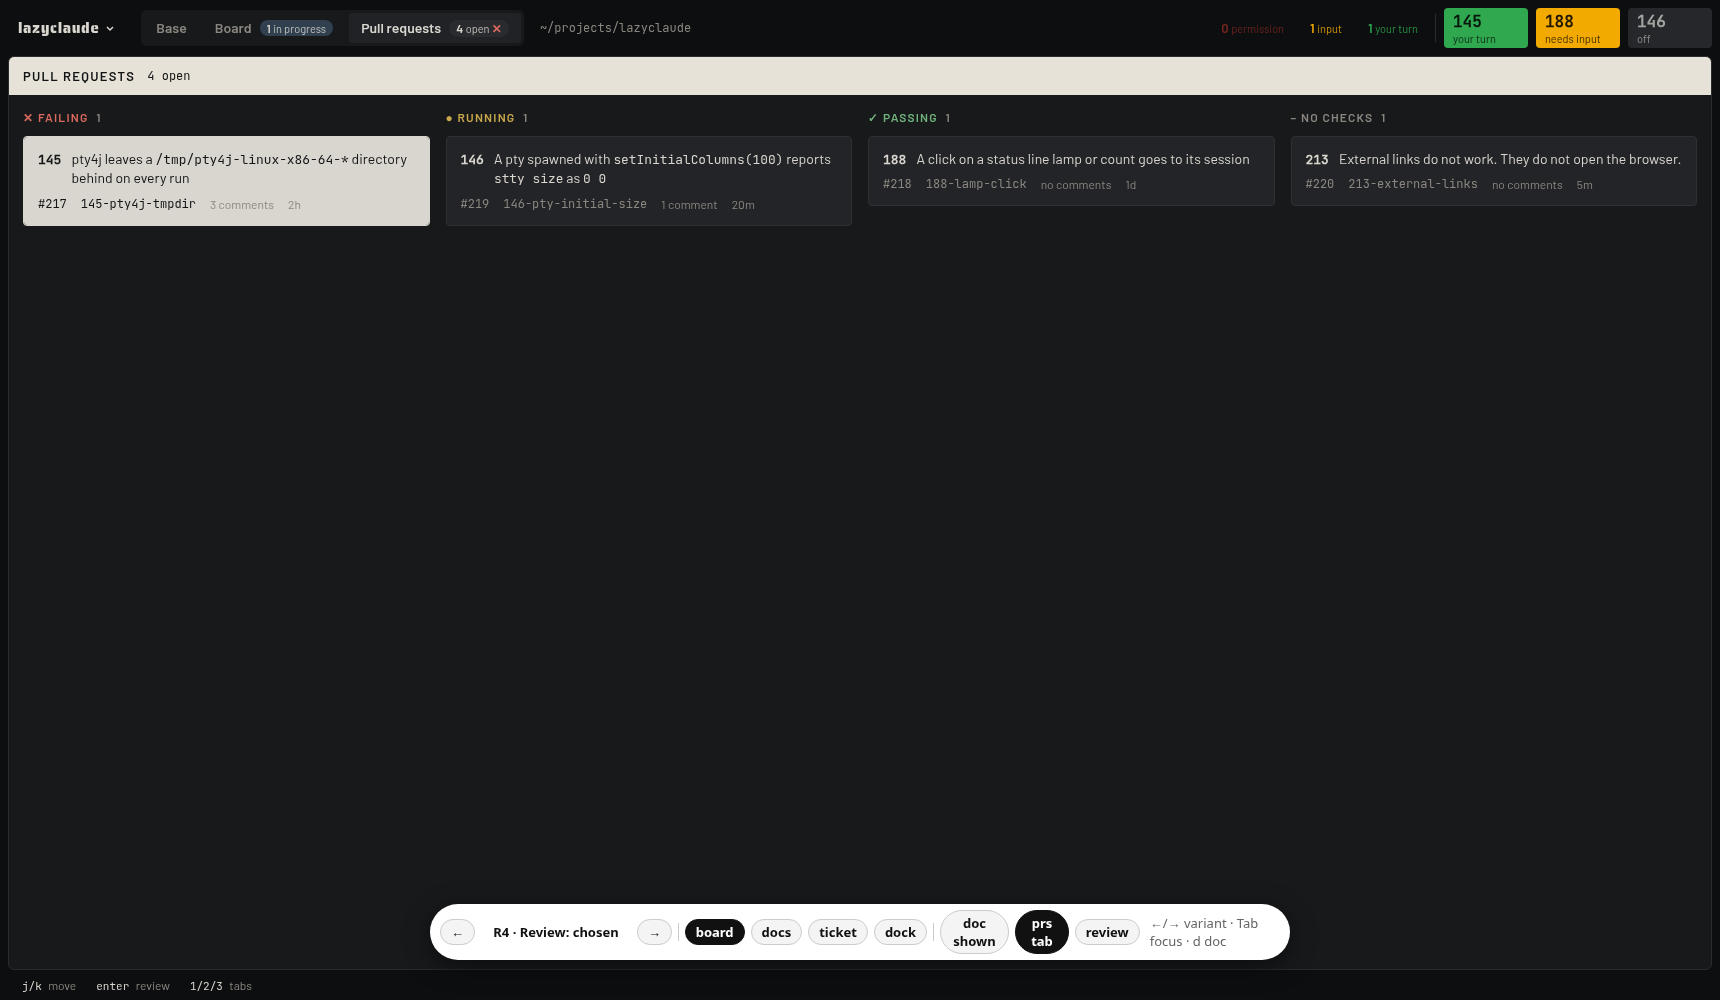
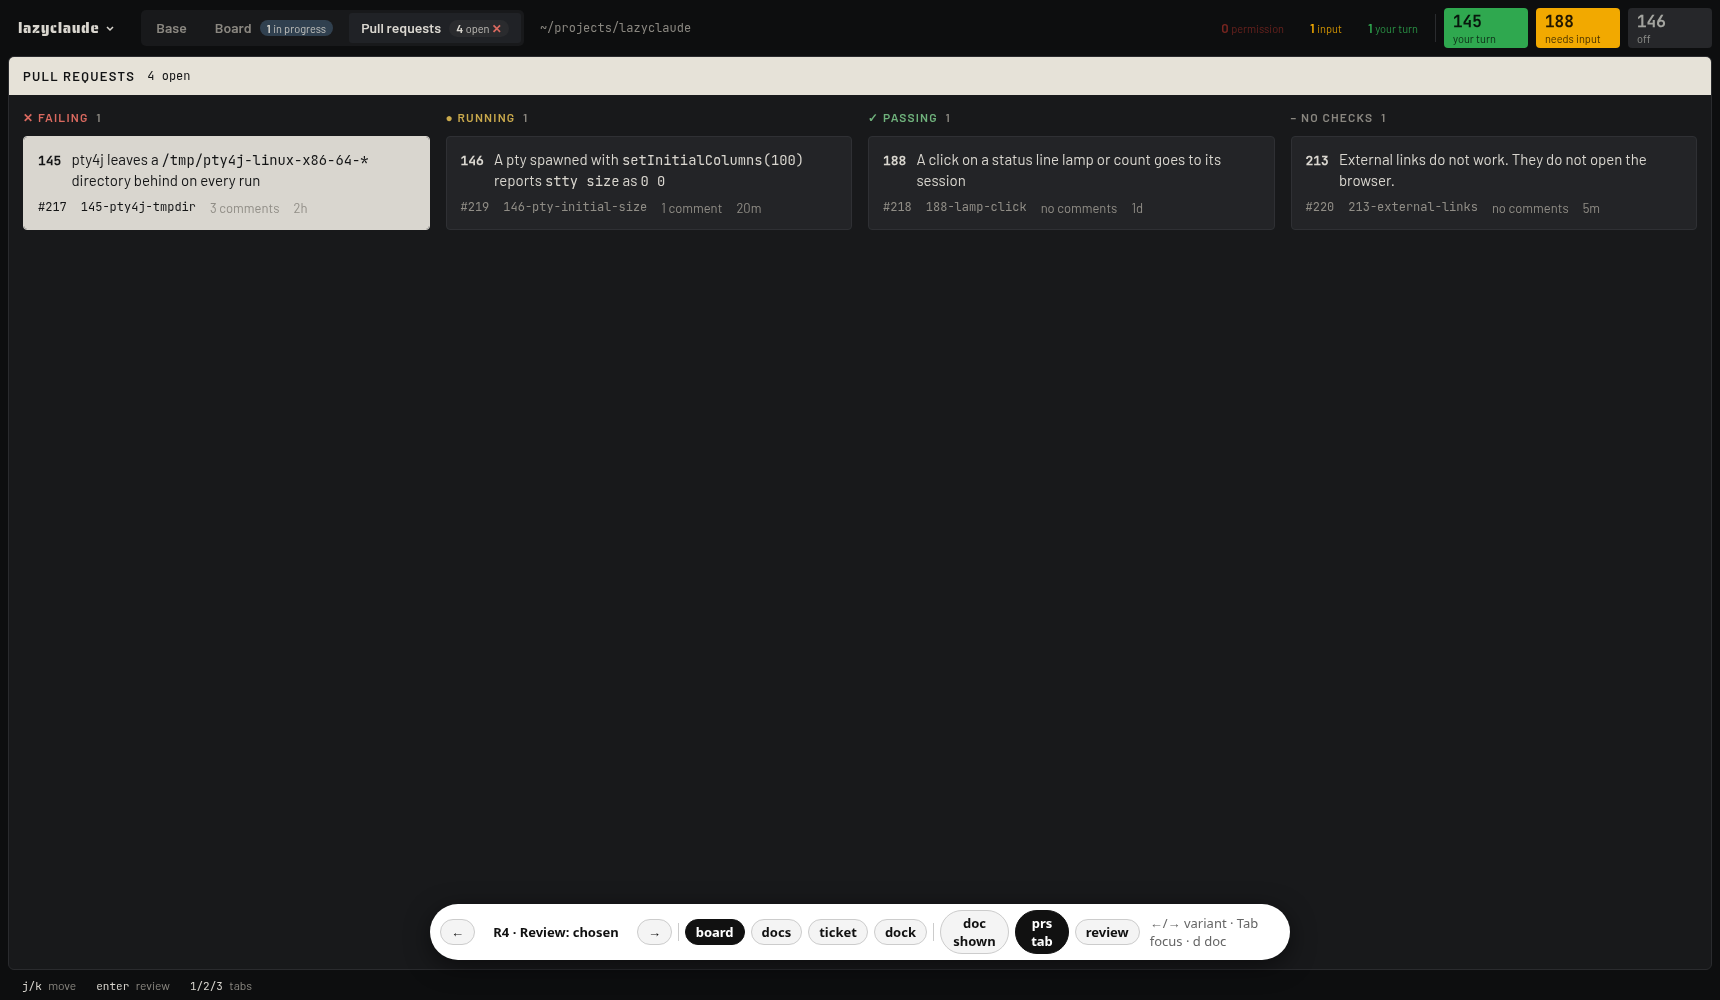
Throwaway prototype: R4 reads easier, with no emoji
PROTOTYPE, not for main. In R4 the code is 14px at 1.55, thread bodies
15px in the text colour, names and times 12px or more, and every ink
reaches 4.5:1 on its ground (lighter gutter numbers, the bright red for
removals, card-dim on cards). The files rail and the cards count in
words ("1 thread", "1 pending") instead of emoji.

diff --git a/frontend/prototype/ux-system/Review.tsx b/frontend/prototype/ux-system/Review.tsx
@@ -125,7 +125,7 @@ const PrList = ({ variant, focus, empty, onOpen }: Props) => {
     );
   const first = list[0];
   return (
-    <main className={`rv-listmain ${variant === 'r3' ? 'rv-listmain-side' : ''}`}>
+    <main className={`rv-listmain rv-list-${variant} ${variant === 'r3' ? 'rv-listmain-side' : ''}`}>
       <Frame pane="board" focus={focus === 'ticket' && variant !== 'r3' ? 'board' : focus} title="Pull requests" sub={list.length === 0 ? undefined : <span className="vb-sub">{list.length} open</span>}>
         {body}
       </Frame>
@@ -180,7 +180,7 @@ const PrList = ({ variant, focus, empty, onOpen }: Props) => {
 
 const CHANGE_WORD = { A: 'added', M: 'modified', D: 'deleted', R: 'renamed' };
 
-const FileList = ({ selected, tree }: { selected: number; tree: boolean }) => (
+const FileList = ({ selected, tree, words = false }: { selected: number; tree: boolean; words?: boolean }) => (
   <div className="rv-files">
     {FILES.map((f, i) => (
       <div key={f.path} className={`rv-file ${i === selected ? 'rv-sel' : ''}`} title={f.path}>
@@ -196,8 +196,17 @@ const FileList = ({ selected, tree }: { selected: number; tree: boolean }) => (
             <b className="rv-plus">+{f.added}</b> <b className="rv-minus">−{f.removed}</b>
           </span>
         )}
-        {f.threads > 0 && <span className="rv-tcount">💬{f.threads}</span>}
-        {f.pending > 0 && <span className="rv-pcount">✎{f.pending}</span>}
+        {words ? (
+          <span className="rv-badges">
+            {f.threads > 0 && <span className="rv-badge">{`${f.threads} thread${f.threads === 1 ? '' : 's'}`}</span>}
+            {f.pending > 0 && <span className="rv-badge rv-badge-pending">{`${f.pending} pending`}</span>}
+          </span>
+        ) : (
+          <>
+            {f.threads > 0 && <span className="rv-tcount">💬{f.threads}</span>}
+            {f.pending > 0 && <span className="rv-pcount">✎{f.pending}</span>}
+          </>
+        )}
       </div>
     ))}
   </div>
@@ -424,7 +433,7 @@ const ReviewView = ({ variant, focus, leftTab }: Props) => {
     return (
       <main className={`rv-review rv-r1 ${variant === 'r4' ? 'rv-r4' : ''}`}>
         <Frame pane="board" focus={focus} title="Files" sub={<span className="vb-sub">6 · +196 −5</span>} className="rv-a-files" footer={<PendingBar wide={false} />}>
-          <FileList selected={0} tree />
+          <FileList selected={0} tree words={variant === 'r4'} />
         </Frame>
         <Frame pane="ticket" focus={focus} title="Review" sub={reviewTitle} className="rv-a-diff" actions={<Icon glyph="close" label="Close the review (esc)" />}>
           <Diff o={{ wrap: true, gutters: 'one', threads: 'inline', stickyFiles: true }} />

diff --git a/frontend/prototype/ux-system/review.css b/frontend/prototype/ux-system/review.css
@@ -745,3 +745,139 @@
 .rv-r4 .rv-cursor.rv-has-thread {
   box-shadow: inset 3px 0 0 var(--focus);
 }
+
+/* R4 readability: sizes up, every ink at 4.5:1 or more on its ground, no emoji */
+.rv-r4 {
+  --r4-gutter: #a19e96;
+  --r4-red: var(--ansi-bright-red);
+}
+.rv-r4 .rv-diff {
+  font-size: 14px;
+  line-height: 1.55;
+}
+.rv-r4 .rv-n {
+  color: var(--r4-gutter);
+}
+.rv-r4 .rv-del .rv-sign,
+.rv-r4 .rv-n s,
+.rv-r4 .rv-minus,
+.rv-list-r4 .rv-minus {
+  color: var(--r4-red);
+}
+.rv-r4 .rv-hunk {
+  font-size: 13px;
+}
+.rv-r4 .rv-hunk-ctx {
+  color: var(--card-dim);
+}
+.rv-r4 .rv-fpath {
+  font-size: 13px;
+}
+.rv-r4 .rv-fname small,
+.rv-r4 .rv-delta {
+  font-size: 12px;
+}
+.rv-r4 .rv-inline .rv-thread {
+  font-size: 15px;
+  line-height: 1.55;
+  padding: 16px 22px 14px;
+}
+.rv-r4 .rv-thread-head {
+  margin-bottom: 4px;
+}
+.rv-r4 .rv-where {
+  font-size: 13px;
+}
+.rv-r4 .rv-tag {
+  font-size: 12px;
+  padding: 2px 9px;
+}
+.rv-r4 .rv-comment {
+  padding: 12px 0;
+}
+.rv-r4 .rv-comment b {
+  font-size: 14px;
+}
+.rv-r4 .rv-comment small {
+  font-size: 12px;
+  color: var(--card-dim);
+}
+.rv-r4 .rv-comment p {
+  color: var(--text);
+  margin-top: 4px;
+}
+.rv-r4 .rv-thread-actions {
+  font-size: 13px;
+  color: var(--card-dim);
+  margin-top: 10px;
+}
+.rv-r4 kbd {
+  opacity: 1;
+}
+.rv-r4 .rv-reply-box {
+  color: var(--dim);
+  font-size: 14px;
+}
+.rv-badge {
+  font: 600 12px var(--font-read);
+  padding: 1px 7px;
+  border-radius: 9px;
+  border: 1px solid var(--card-edge);
+  color: var(--text);
+  white-space: nowrap;
+}
+.rv-badge-pending {
+  border-color: var(--lamp-input);
+  color: var(--lamp-input);
+}
+.vb-focused .rv-sel .rv-badge {
+  color: var(--text-on-light);
+  border-color: currentColor;
+}
+.rv-list-r4 .rv-meta {
+  font-size: 13px;
+  color: var(--card-dim);
+}
+.rv-list-r4 .rv-card2 .rv-title {
+  font-size: 15px;
+}
+.rv-list-r4 .rv-head,
+.rv-list-r4 .rv-num {
+  font-size: 12px;
+  color: var(--card-dim);
+}
+.rv-list-r4 .rv-group-none {
+  color: var(--dim);
+}
+.rv-r4 .rv-cursor .rv-n {
+  color: var(--text);
+}
+.rv-r4 .vb-focused .rv-cursor .rv-n {
+  color: var(--focus);
+}
+.rv-r4 .rv-file {
+  display: grid;
+  grid-template-columns: 16px minmax(0, 1fr) auto;
+  grid-template-areas: 'change name delta' 'change name badges';
+  column-gap: 8px;
+  row-gap: 2px;
+  padding: 6px 12px;
+}
+.rv-r4 .rv-change {
+  grid-area: change;
+  align-self: start;
+  margin-top: 2px;
+}
+.rv-r4 .rv-fname {
+  grid-area: name;
+}
+.rv-r4 .rv-file .rv-delta {
+  grid-area: delta;
+  justify-self: end;
+}
+.rv-r4 .rv-badges {
+  grid-area: badges;
+  justify-self: end;
+  display: flex;
+  gap: 4px;
+}
